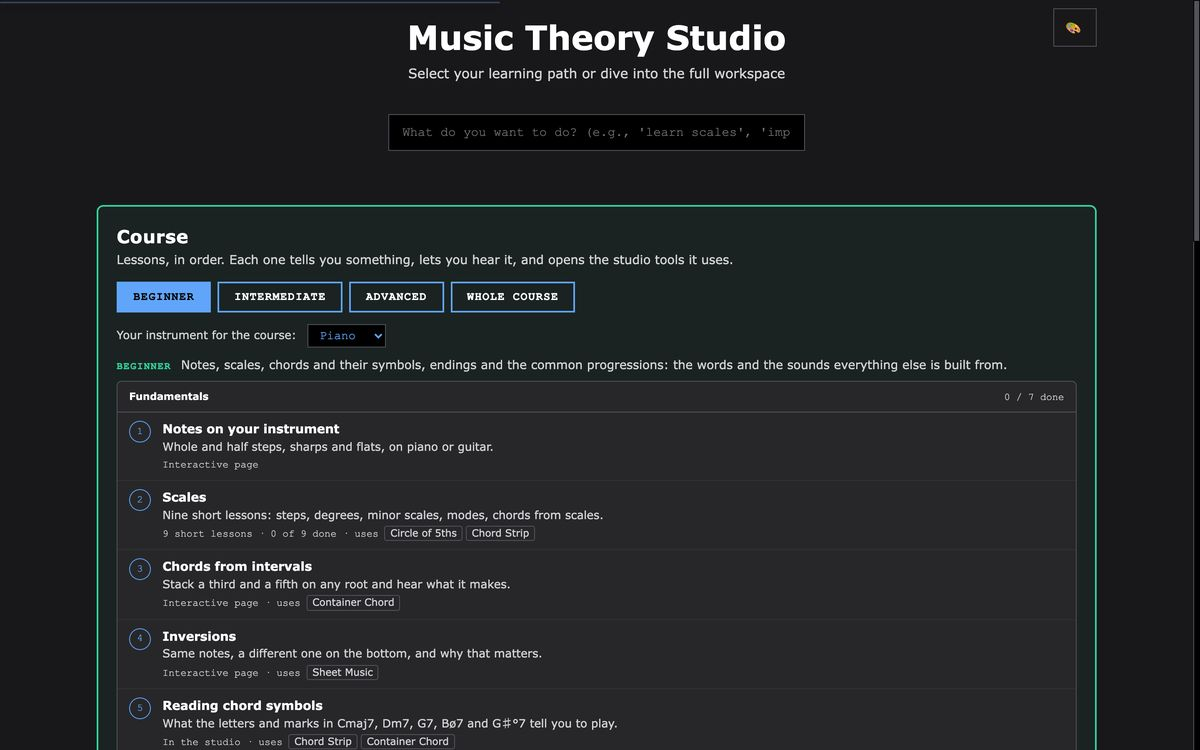
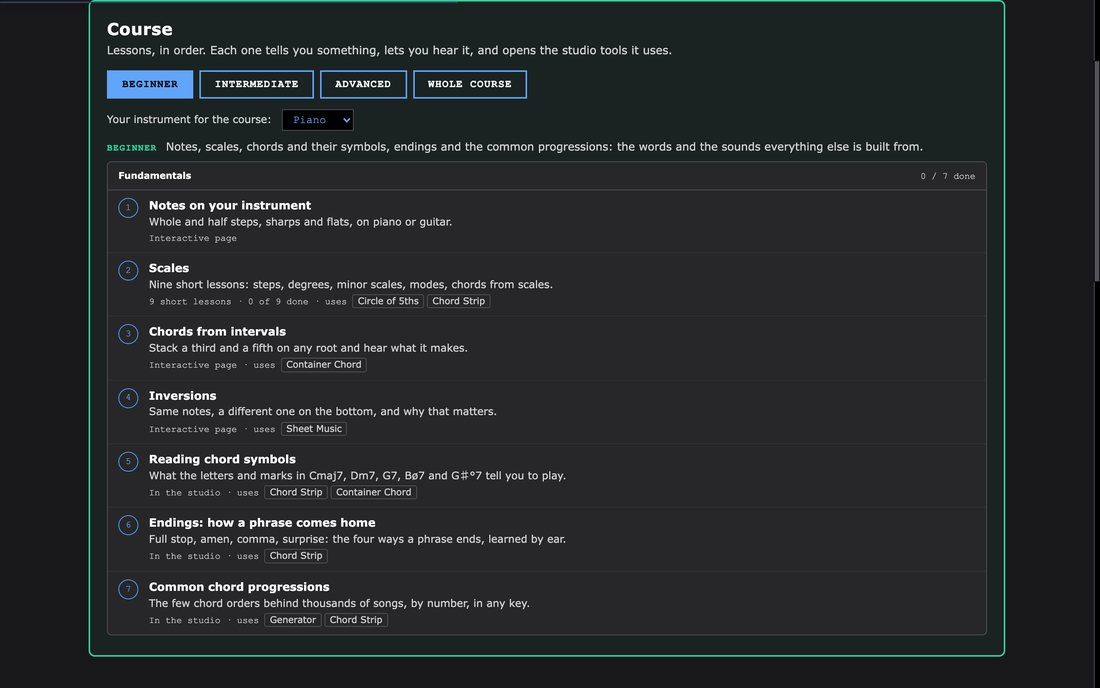
README: lead with the course and tools, new screenshots

diff --git a/README.md b/README.md
@@ -1,122 +1,145 @@
 # Music Theory Studio
 
-**Type a few words and get a piece of music that can explain itself.**
+**A music theory course and a set of interactive tools you can see, hear and play.**
 
 ### [Open the studio →](https://parkerchace.github.io/MusicTheory/modular-music-theory.html)
 
 Free · Runs in your browser · No install, no account · Nothing you type leaves your computer
 
-![The studio in its Stage & Wings look: a generated score across the whole stage with the words "the long walk home" under the staff, the input tools folded into a spine on the left and the reference tools on the right, a piano and a guitar neck along the bottom](media/studio-stage-wings.jpg)
+![A studio lesson in progress: the lesson card on the right explains the 5-of a chord with playable examples, a Show me callout points at a planet in the Solar System tool on the left, the score sits in the middle, and a piano and guitar neck run along the bottom](media/lesson-in-studio.jpg)
 
-Music Theory Studio is a workshop for how music is made. Give it a phrase, such as *the long walk home through winter woods*, and it reads what the words mean. It then chooses a key and scale, plans a form, writes harmony, melody and accompaniment, and engraves the result as a score you can hear, play along with and export as MIDI. Every press of **Generate** is a new take.
-
-Then it shows its work. A chord or a note from outside the key can say where it came from and why it is there. The aim is not a random-music machine. It is a composer that can be questioned, inside a set of theory tools you can rearrange to match how you think, with a course that teaches from those same tools.
+Music Theory Studio teaches theory by putting it under your fingers. A 20-lesson course runs from the names of the notes to chromatic mediants, on piano or guitar. Its lessons open the same tools you keep using afterwards: a circle of fifths, a solar-system map of the scale, chord and scale finders, a catalogue of every scale, a score, and a keyboard and neck that light up with whatever you are looking at.
 
 ---
 
-## Try it in one minute
+## Start here
 
-1. **[Open the studio](https://parkerchace.github.io/MusicTheory/modular-music-theory.html)**, scroll past the course, the tools and the looks, and press **Launch Full Studio**. To be taught first, pick a lesson from the course at the top of the page instead.
-2. Type a few words into the box in the top bar and press **Generate**.
-3. Press **▶ Play** in the score's toolbar. The studio opens in the OG look, where the toolbar sits above the score. Stage & Wings, Notation Desk and Luthier fold it behind **[CONTROLS]**, and Focus puts it below the score.
-4. Open **Where the music comes from** to see why each chord was chosen. It is above the score in OG and below the score in every other look.
-5. Click the piano. Your computer keyboard is now an instrument: `Z S X D C…` play notes, and holding **Shift** plays the scale's chords.
-6. Press **⊞** in the top bar and pick a different *look*. It is the same studio, arranged around a different idea.
+1. **[Open the studio](https://parkerchace.github.io/MusicTheory/modular-music-theory.html).** The course is at the top of the page.
+2. Choose piano or guitar under *Your instrument for the course*, then open **Notes on your instrument**, or pick a later level if you already know the basics.
+3. To go straight to the tools, scroll past the course and press **Launch Full Studio**.
+4. Click the piano. Your computer keyboard is now an instrument: `Z S X D C…` play notes, and holding **Shift** plays the scale's chords.
+5. Press **⊞** in the top bar and pick a different *look*. It is the same studio, arranged around a different idea.
 
 New here? The first launch offers a short tour, and the **?** menu has it again as Easy Mode, along with Demo Mode, which explains any tool you hover over.
 
 ---
 
-## What's inside
+## The course
 
-### Words into music
+**20 lessons at three levels, in order.** Intermediate and Advanced are built from the lecture *Finding Melodies in Scales*.
 
-- **Meaning, not only sound.** Words are read against 12 hand-built fields (motion, stillness, impact, rise, fall, bright, dark, tension, tenderness, sorrow, vastness, smallness), with "not", "very" and "barely" applied to the word that follows, and for how they sound and scan. A word the fields don't know counts as neutral rather than guessed at. The meaning leans the choice of key and shapes the piece; the rest comes from the take's seed.
-- **Seven ways to read a text.** *Contour* plays the shape of a line you draw. *Cipher* spells a melody from your letters. *Cast of Themes* turns each word into a recurring subject. *Spotting* treats sentences as film-cue sections, with punctuation as the edit. *Blocks* builds the whole piece from a handful of bars, reordered and stacked. *Pedal & Colour* holds one bass note under shifting harmony. *Two Lines* writes a melody on top and another on the bottom. The **ⓘ** beside the menu says what the current reading does.
-- **A line that says what it draws.** In Contour, draw with a mouse, finger or pen. *The line is* sets what the drawing stands for: the whole piece, each phrase, the melody itself, or a short motif. *Suggest a shape* offers 15 named shapes to start from or keep, such as False Summit, Lament and Eye of the Storm. Rhythm, melody and harmony dials sit underneath.
-
-![The Contour panel: a drawn curve labelled False Summit, what the line stands for, rhythm, melody and harmony dials, and the words as chips](media/contour.jpg)
-
-- **Real musical form.** 33 forms in 11 families: sentence and period, binary and rounded binary, bar form, the 12-bar blues, verse-chorus, rondo, sonata, fugal exposition, theme and variations, passacaglia, arch, minuet and trio, call and response, and more.
-- **Whole works.** **Expand**, on the score's toolbar, turns a piece into a multi-movement *work*, from 8 plans (sonata cycle, song cycle, baroque suite, concerto, diptych and others), with contrast between movements, a key plan that comes home, and later movements quoting earlier ones. Length is adjustable.
-- **Two devices that change the harmony.** *Approach scales* borrow a whole collection that points at the next chord and walk into it, with a choice of collections and how often. *Departures* step out to another key's colour, and you choose how they move and whether they come home.
-
-### A composer that explains itself
-
-- **Outside notes are placed on purpose.** A chromatic note comes from somewhere: a borrowed collection, a leading tone, an approach, a planned excursion. Tests measure how many slip through without a reason.
-- **Where the music comes from** gives the home key, the form, each borrowed chord with its source scale and purpose (you can audition each one), every trip out of the key and back, the progression bar by bar, why melody notes leave the scale, and how the texture changes. Type a progression there to browse the approach chords into it.
-- **Change one thing at a time.** *Adjust this take* keeps the seed and changes a single decision, so you hear only that decision: piano or four-part texture, the form, and 11 harmonic devices (sevenths, inversions, secondary dominants, borrowed chords, chromatic mediants and others) set to auto, on or off. **New take** rolls a new seed when you want one.
-
-![Where the music comes from, open: the home key, the verse-chorus form, the progression by section, and a reason for every chord bar by bar](media/where-the-music-comes-from.jpg)
-
-### Hear it and perform it
-
-- **Nine playback voices:** piano (plain, with reverb, pad or strings), strings, guitar, electric piano, and R&B synth and pad.
-- **Feel that a performance does:** four swing settings, three levels of expressive timing, and notes pushed or laid back against the grid.
-- **18 voicing styles** (close, drops, shells, quartal, gospel, rootless and more) plus 5 automatic strategies, with voice leading between chords. Set them for the whole piece or bar by bar.
-- **MIDI export** to any DAW, matching what is on the page.
-
-### A course that teaches inside the studio
-
-- **20 lessons at three levels.** *Beginner* covers notes, scales, chords, inversions, chord symbols, endings and common progressions. *Intermediate* covers voicings and drop 2, bebop major, and the 5-of and 4-of ways into any chord. *Advanced* covers approach chords, chromatic mediants and progressions into a target. Intermediate and Advanced are built from the lecture *Finding Melodies in Scales*.
-- **Lessons use the real tools.** A studio lesson lays out only the tools it needs and leaves the rest in a *More tools* drawer. **Show me** points at the control and a button beside it makes the setting for you. Steps that set something tick themselves when the studio reaches that state. Five lessons add a playable part: chord symbols on any root, a guess-the-ending game, progressions that load into the generator, and tables of the ways into a chord.
-- **Five guided Learn pages** cover notes on piano, notes on guitar, scales, chords and inversions. Each has its own practice or check and a way on to the next lesson. Progress is saved in your browser.
-- **Your instrument, all the way through.** Choose the guitar and the Learn pages show necks in place of keyboards, with its sound and its words, and studio lessons show a dock with only the guitar. The piano, guitar, scales and chords pages listen to the typing keyboard and to MIDI, so you can practise on a real instrument.
-- **Tools point back to lessons.** A *Learn* chip on a module header lists the lessons that use it, and the Studio tools cards on the landing page do the same. The OG look and folded rails don't show the chip.
+| Level | Unit | Lessons |
+| --- | --- | --- |
+| **Beginner** | Fundamentals | Notes on your instrument · Scales (nine short lessons) · Chords from intervals · Inversions · Reading chord symbols · Endings: how a phrase comes home · Common chord progressions |
+| **Intermediate** | Voicings: room for a melody | Start with the close-voiced chord · Drop 2 · Inverted drop 2s · Drop 2 & 4 and drop 3 |
+| | Interesting scales: bebop major | Bebop major: eight notes, two chords · Harmonize a melody: 6 or °7? |
+| | Two ways into any chord | The 5-of and the 4-of |
+| **Advanced** | Approach chords | A °7 a half step below · Tonicize the target, borrow from a scale on it · Scales carry moods |
+| | Approach by interval | A fifth away: Mixolydian, and ♭6 for minor · A third away: chromatic mediants |
+| | Progressions into a target | Tonicize with a whole progression |
 
 <p>
   <img src="media/course-landing.jpg" width="49%" alt="The course on the landing page: Beginner, Intermediate, Advanced and Whole course tabs, the instrument menu, and the numbered Fundamentals lessons">
   <img src="media/course-lesson.jpg" width="49%" alt="A studio lesson on drop 2 voicings: the lesson card on the right with playable examples, and a Show me callout pointing at the Voicing menu">
 </p>
-<p>
-  <img src="media/learn-guitar-notes.jpg" width="49%" alt="The Notes on your instrument page on guitar: a neck with a tuning menu and short numbered lessons beside it">
-  <img src="media/learn-chords-guitar.jpg" width="49%" alt="The Chords from intervals page on guitar: root and chord-type buttons, a chord built up one step at a time on small necks">
-</p>
 
-### A studio you can rearrange, and learn from
+### Lessons happen inside the real tools
 
-- **Five built-in looks** rearrange the same tools around a different principle. *OG* is the original layout, with everything on screen, and is where the studio opens. *Stage & Wings* (at the top of this page) gives the score the whole stage, with every tool a click away at the edges. *Notation Desk* keeps page proportions and puts the reference tools behind a drawer. *Luthier* is for players and puts the fretboard first. *Focus* shows one tool at a time.
-- **Build your own look.** Remix any look or start from a skeleton, give each zone a purpose, and name the idea behind it. Looks save in your browser and export as a small `.look.json` file another person can import.
-- **Four visual themes:** Clean DAW, Channel Strip, Matrix FX and Steam 2000. The 🎨 button steps through them.
+- **Only what the lesson needs.** A studio lesson lays out the tools it uses and leaves the rest in a *More tools* drawer.
+- **Show me.** A button points at the control the lesson means, and a second button beside it makes the setting for you.
+- **Steps that notice.** A step that sets something ticks itself when the studio reaches that state.
+- **Things to play.** Every lesson has examples to hear, and five add a playable part: chord symbols on any root, a guess-the-ending game, progressions that load into the Generator, and tables of the ways into a chord.
 
 <p>
-  <img src="media/look-og.jpg" width="49%" alt="The OG look: the number generator in a left column, the chord strip and sheet music with its full toolbar, and a piano and neck below">
-  <img src="media/look-notation-desk.jpg" width="49%" alt="The Notation Desk look: the score centred with page proportions and a folded reference drawer at the right edge">
-</p>
-<p>
-  <img src="media/look-luthier.jpg" width="49%" alt="The Luthier look: a full-width guitar fretboard across the top, theory tools in a compact column, the score and a large piano below">
-  <img src="media/look-focus.jpg" width="49%" alt="The Focus look: the chord strip above a row of tabs, and the score alone beneath them">
+  <img src="media/lesson-chord-symbols.jpg" width="49%" alt="The Reading chord symbols lesson: a row of roots, a small keyboard, and a table of chord symbols with their numbers, notes and half steps">
+  <img src="media/lesson-endings.jpg" width="49%" alt="The Endings lesson: four cadences named Full stop, Amen, Comma and Surprise, each a playable row of chords, with a callout pointing at the Chords button on the keyboard strip">
 </p>
 
-### Play it
+### Five guided Learn pages
+
+The Beginner lessons on notes, scales, chords and inversions open pages built for a first-time student. Each has its own practice or check and a way on to the next lesson, and progress is saved in your browser.
+
+<p>
+  <img src="media/learn-piano-notes.jpg" width="49%" alt="Notes on your instrument, on piano: a keyboard of the C major notes joined by lines to the same notes on a staff">
+  <img src="media/learn-guitar-notes.jpg" width="49%" alt="Notes on your instrument, on guitar: a neck with a tuning menu and short numbered lessons beside it">
+</p>
+<p>
+  <img src="media/learn-scales.jpg" width="49%" alt="The Scales page: nine numbered lessons, a short explanation of what a scale is, a check question, and a playable piano with the scale's notes numbered">
+  <img src="media/learn-inversions.jpg" width="49%" alt="The Inversions page: three small keyboards showing C major with C, E and then G on the bottom">
+</p>
+<p>
+  <img src="media/learn-chords.jpg" width="49%" alt="Chords from intervals, on piano: root and chord-type buttons, and a chord built up one step at a time on small keyboards">
+  <img src="media/learn-chords-guitar.jpg" width="49%" alt="Chords from intervals, on guitar: the same page with the chord built up one step at a time on small necks">
+</p>
+
+### Your instrument, all the way through
+
+Choose the guitar and the Learn pages show necks in place of keyboards, with its sound and its words, and studio lessons show a dock with only the guitar. The piano, guitar, scales and chords pages listen to the typing keyboard and to MIDI, so you can practise on a real instrument.
+
+**Tools point back to lessons.** A *Learn* chip on a module header lists the lessons that use it, and the Studio tools cards on the landing page do the same. The OG look and folded rails don't show the chip.
+
+---
+
+## The tools
+
+Every tool follows the same key and scale, so a change in one shows up in the others. The **Chord Strip** above the score keeps one chord for each degree of the scale in view.
+
+### Circle of 5ths and Solar System
+
+The **Circle of 5ths** shows keys as wedges, with a relative-minor ring, and clicking one changes the studio's key. It switches to 4ths or chromatic order and numbers the scale's notes (Notes / 1 2 3 / Both).
+
+The **Solar System** shows the scale as orbits around its tonic, with every note a numbered planet on its own ring. Click a planet to zoom in on its moons: the chords that lead to it or hold it, each numbered from the planet and named for its role, such as tritone sub, five-of and chromatic mediant. Click a moon to add it to the score.
+
+<p>
+  <img src="media/circle-of-fifths.jpg" width="49%" alt="The Circle of Fifths in G Mixolydian: the scale's notes as numbered green wedges, a relative-minor ring, and a panel with the scale and closest keys">
+  <img src="media/solar-system.jpg" width="49%" alt="The Solar System tool in G Mixolydian: a sun labelled G and seven numbered planets, each on its own ring">
+</p>
+
+![Zoomed in on the fifth planet, D: its moons on their own rings, labelled with chord names, and a list naming each one's role, such as tritone sub, five-of and chromatic mediant](media/solar-moons.jpg)
+
+### Container Chord
+
+*Which chords contain these notes?* Type or pick the notes, narrow the list to the scale if you like, group the answers by fit, root or family, and add a chord to the score.
+
+![Container Chord showing the chords that contain D, F and A in C major: Dm7, Dm6, F6, Bm7b5 and others, each with its notes, where it leads, and variations such as Dm9 and Dm11](media/tool-container-chord.jpg)
+
+### Scale Relations
+
+*Which scales contain this chord?* Filter by tonic, then preview a scale on a piano with its chords, or apply it to the studio.
+
+![Scale Relations with D Dorian open: a piano with the scale's notes lit and the scale's chords listed underneath, from Dm7 to Cmaj7](media/tool-scale-relations.jpg)
+
+### Sheet Music
+
+The score, with chord names and how each one is voiced. Its toolbar sets staff, bars, tempo, voicing, feel and sound, and **+** marks add a section to the form.
+
+- **18 voicing styles** (close, drops, shells, quartal, gospel, rootless and more) plus 5 automatic strategies, with voice leading between chords. Set them for the whole piece or bar by bar.
+- **Nine playback voices:** piano (plain, with reverb, pad or strings), strings, guitar, electric piano, and R&B synth and pad.
+- **Feel:** four swing settings, three levels of expressive timing, and notes pushed or laid back against the grid.
+- **MIDI export** to any DAW, matching what is on the page.
+
+![Sheet Music in the Focus look: chords written on a grand staff with their names and voicings above and below, and the Voicing Options panel beside the score](media/tool-sheet.jpg)
+
+### Generator
+
+Type a progression as numbers, numerals or chord names, or generate one with a logic of your choice, then rotate it, run it backwards or swap in a common progression. It writes degrees as numbers, and the **123** button switches them to roman numerals.
+
+![The Generator: a logic menu, undo and redo, the progression written as 1 2 3 4 5 6 7, each number with its note below, and buttons for a new or common progression and retrograde](media/tool-generator.jpg)
+
+### Piano and Fretboard
+
+The instrument dock runs along the bottom of the studio and shows the scale and the chord being played. The piano has scale degrees in colour and standard fingerings for either hand or both, which you can turn off.
+
+![The instrument dock: a piano with the C major scale numbered and coloured beside a guitar neck with every scale tone marked and the roots highlighted](media/tool-dock.jpg)
 
 - **Your computer keyboard is an instrument**, laid out like FL Studio's: two rows of piano keys, ← → for octave and ↑ ↓ for velocity. It never takes over while you are typing in a text box.
 - **Chords mode** puts the scale's chords under your fingers, with sevenths on the row above and secondary dominants on the black keys. Each chord goes through the same voicing engine as the score. **A** picks the inversion. **F** "walks" the inversions as you play.
 - **Harmonize mode** treats what you play as a melody and puts a chord from the scale underneath it. It works with a MIDI keyboard too.
 - **One guitar tuning everywhere.** Choose from 12 tunings (Drop D, DADGAD, open tunings and more) or type your own. Necks, chord shapes and lessons all follow it, and it is remembered for your next visit.
-- **A piano that shows its work:** scale degrees in colour, and standard fingerings for either hand or both, which you can turn off.
 
-### The tools
+---
 
-| Tool | What it does |
-| --- | --- |
-| **Sheet Music** | The score: the toolbar for staff, bars, tempo, voicing, feel, sound and Expand, plus **+** marks to add a section to the form |
-| **Chord Strip** | One chord for each degree of the scale |
-| **Circle of 5ths** | Keys as wedges, with a relative-minor ring. Clicking one changes the studio's key. Switches to 4ths or chromatic order, and numbers the scale's notes (Notes / 1 2 3 / Both) |
-| **Solar System** | The scale as orbits around its tonic, with every note a numbered planet on its own ring. Click a planet to zoom in on its moons: the chords that lead to it or hold it, each numbered from the planet and named for its role. Click a moon to add it to the score |
-| **Container Chord** | "Which chords contain these notes?" Type or pick the notes, narrow the list to the scale if you like, and add a chord to the score |
-| **Scale Relations** | "Which scales contain this chord?" Filters by tonic, then previews a scale on a piano with its chords, or applies it |
-| **Generator** | Type a progression as numbers, numerals or chord names, or generate one with a logic of your choice, then rotate it, run it backwards or swap in a common progression. It writes degrees as numbers, and the **123** button switches them to roman numerals |
-| **Piano and Fretboard** | The instrument dock along the bottom, showing the scale and the chord being played |
-
-<p>
-  <img src="media/solar-system.jpg" width="49%" alt="The Solar System tool in G Mixolydian: a sun labelled G and seven numbered planets, each on its own ring">
-  <img src="media/circle-of-fifths.jpg" width="49%" alt="The Circle of Fifths in G Mixolydian: the scale's notes as numbered green wedges, a relative-minor ring, and a panel with the scale and closest keys">
-</p>
-
-![Zoomed in on the fifth planet, D: its moons on their own rings, labelled with chord names, and a list naming each one's role, such as tritone sub, five-of and chromatic mediant](media/solar-moons.jpg)
-
-### The scale catalogue
+## The scale catalogue
 
 **All 2,048 sets of notes that contain a root**, with over 3,800 further names kept alongside the display names and shown in their own traditions. Dorian also appears as 22 Kharaharapriyā under Carnatic and Kafi thaat under Hindustani. Names that no source confirms are marked as such, and scales from other traditions are marked as approximations in twelve notes.
 
@@ -131,17 +154,43 @@ New here? The first launch offers a short tour, and the **?** menu has it again 
 
 ---
 
-## The idea
+## A studio you can rearrange
 
-Most generative music is individually correct and collectively about nothing. The studio already had the theory machinery. The hard part was **intention**: placement, commitment, repetition and restraint. The generator is tuned against pieces that show those qualities:
+- **Five built-in looks** rearrange the same tools around a different principle. *OG* is the original layout, with everything on screen, and is where the studio opens. *Stage & Wings* gives the score the whole stage, with every tool a click away at the edges. *Notation Desk* keeps page proportions and puts the reference tools behind a drawer. *Luthier* is for players and puts the fretboard first. *Focus* shows one tool at a time.
+- **Build your own look.** Remix any look or start from a skeleton, give each zone a purpose, and name the idea behind it. Looks save in your browser and export as a small `.look.json` file another person can import.
+- **Four visual themes:** Clean DAW, Channel Strip, Matrix FX and Steam 2000. The 🎨 button steps through them.
 
-- **Minuet in G**: simple chords, full of character, because it moves in gestures that commit to a direction.
-- **Für Elise**: chromatic notes exist for motion, and there are very few of them. The E–D♯–E rub works because it keeps coming back.
-- **Bach's Prelude in C**: one figure, never varied, while the harmony walks through it.
-- **Pachelbel**: a melody on top and a melody on the bottom at the same time.
-- **Ellington**: a highlighted moment is built on and escalated, not repeated.
+<p>
+  <img src="media/look-og.jpg" width="49%" alt="The OG look: the Generator in a left column, the chord strip and sheet music with its full toolbar, and a piano and neck below">
+  <img src="media/look-stage-wings.jpg" width="49%" alt="The Stage and Wings look: the score across the whole stage with the tools folded into rails at the left and right edges">
+</p>
+<p>
+  <img src="media/look-luthier.jpg" width="49%" alt="The Luthier look: a full-width guitar fretboard across the top, theory tools in a compact column, the score and a large piano below">
+  <img src="media/look-notation-desk.jpg" width="49%" alt="The Notation Desk look: the score centred with page proportions and a folded reference drawer at the right edge">
+</p>
+<p>
+  <img src="media/look-focus.jpg" width="49%" alt="The Focus look: the chord strip above a row of tabs, and the score alone beneath them">
+  <img src="media/look-builder.jpg" width="49%" alt="The look builder: a panel with a name, a purpose, eight skeletons to start from, and a list of modules assigned to zones, beside a live preview of the layout">
+</p>
 
-That philosophy runs through the whole app. Each look is a theory of what belongs next to what. The score can account for its chromatic notes. The musical rules are checked by tests in `tools/` that measure them across many seeded pieces.
+---
+
+## Writing music from words
+
+The studio can also write a piece for you to hear and take apart. It is a smaller part of the app. Type a few words in the top bar and press **Generate**, then **▶ Play** in the score's toolbar. Every press is a new take.
+
+- **Reading the words.** Words are read against 12 hand-built fields of meaning and for how they sound and scan. The meaning leans the choice of key and shapes the piece; the rest comes from the take's seed.
+- **Seven readings of a text.** *Contour* plays the shape of a line you draw, with 15 named shapes to start from. *Cipher* spells a melody from your letters. *Cast of Themes* turns each word into a recurring subject. *Spotting* treats sentences as film-cue sections. *Blocks* builds the piece from a handful of bars. *Pedal & Colour* holds one bass note under shifting harmony. *Two Lines* writes a melody on top and another on the bottom.
+- **Form.** 33 forms in 11 families, from sentence and period to sonata and passacaglia. **Expand**, on the score's toolbar, turns a piece into a multi-movement work from 8 plans.
+- **Devices.** *Approach scales* borrow a whole collection that points at the next chord and walk into it. *Departures* step out to another key's colour.
+- **It explains itself.** *Where the music comes from* gives the home key, the form, each borrowed chord with its source scale and purpose, and why melody notes leave the scale. *Adjust this take* keeps the seed and changes one decision, so you hear only that decision.
+
+<p>
+  <img src="media/contour.jpg" width="49%" alt="The Contour panel: a drawn curve labelled False Summit, what the line stands for, rhythm, melody and harmony dials, and the words as chips">
+  <img src="media/where-the-music-comes-from.jpg" width="49%" alt="Where the music comes from, open: the home key, the verse-chorus form, the progression by section, and a reason for every chord bar by bar">
+</p>
+
+The generator is tuned against pieces that commit to an idea: Minuet in G for gestures with a direction, Für Elise for few chromatic notes that keep coming back, Bach's Prelude in C for one figure while the harmony walks through it, Pachelbel for a melody on top and on the bottom at once, and Ellington for a moment that is built on and escalated. Tests in `tools/` measure these musical rules across many seeded pieces.
 
 ---
 
@@ -170,6 +219,7 @@ The scale picker was the part of the app that most misrepresented what it knew. 
 - **Stopping:** a score that is playing can keep going after you leave the studio.
 - **Engraving:** the score prints a raw scale id above the staff and a "Tips" line across it, and lyrics can collide.
 - **Guitar in the course:** the chord-symbols table in *Reading chord symbols* always draws a keyboard, even when you chose the guitar.
+- **Spelling in Container Chord:** flats can be listed as sharps. C7 shows as C, E, G, A♯ even in C major.
 - **Harmonization mode:** the Generator's three choices reach the score, but none of them changes a generated piece yet. The chord picking behind them was removed with the old progression builder.
 - **Leftovers:** a greyed-out *Send → Bitwig* button on the score's toolbar, a Generator hint pointing at a "Control Deck" that no longer exists, and some landing-page tool descriptions older than the tools they describe.
 - **Long sessions:** the app's interaction log grows without limit.
@@ -184,8 +234,8 @@ The scale picker was the part of the app that most misrepresented what it knew. 
 ### Where it could go
 
 - **Classrooms.** A look is a lesson plan in miniature. A teacher can build one that puts exactly the tools a unit needs in the order it teaches them, then share it as a file.
-- **Songwriting and scoring.** Spotting reads a scene description as cue timings. Two Lines and the approach devices produce material worth taking into a DAW through MIDI export.
 - **Practice.** Chords mode and Harmonize make any keyboard, MIDI or QWERTY, into a voice-leading and harmony trainer.
+- **Songwriting and scoring.** Spotting reads a scene description as cue timings. Two Lines and the approach devices produce material worth taking into a DAW through MIDI export.
 - **Research and teaching about text and music.** Seven explicit, inspectable readings of text into music, each one documented in the app with what it reads and what it controls.
 
 ---
@@ -235,16 +285,16 @@ On November 6, 2026, all 87 passed at 1440x900 with no page errors.
 | Area | Files |
 | --- | --- |
 | Page and app wiring | `modular-music-theory.html`, `modular-app.js`, `module-selector.js` (landing page and page switching), `tutorial-system.js`, `theme-switcher.js` |
+| Course | `course.js` (the lessons), `course-runner.js` (a lesson inside the studio), `course-theory.js` (spelling and chord naming), `course-widgets.js` (playable tables and games), `course.css` |
+| Learn pages | `learn-common.js` (what they share), `learn-piano-notes.js`, `learn-guitar-notes.js`, `learn-scales.js`, `learn-chords.js`, `learn-inversions.js` |
+| Theory tools | `number-generator.js`, `container-chord-tool.js`, `scale-relationship-explorer.js`, `scale-circle-explorer.js`, `solar-system-visualizer.v2.js`, `viz-controls.css` (the bar the circle and the solar system share) |
+| Instruments and input | `piano-visualizer.js`, `guitar-fretboard-visualizer.js`, `guitar-tuning.js` (the one tuning every neck reads), `instrument-dock.js`, `qwerty-keys.js`, `qwerty-chords.js`, `midi-input-manager.js` |
+| Theory data and scale picker | `music-theory-engine.js`, `chord-attribute-engine.js`, `scales-data-embedded.js`, `scales-loader-embedded.js`, `scale-taxonomy.js`, `scale-library.js`, `scale-helper.js`, [`tools/scales/`](tools/scales/README.md) (the catalogue build) |
+| Score, voicing, playback, MIDI | `sheet-music-generator.js`, `voice-leading-engine.js`, `music-provenance-panel.js`, `logic-path-3d.js`, `simple-audio-engine.js`, `enhanced-audio-engine.js`, `piano-sample-engine.js` |
+| Looks | `look-schema.js` (what a look is, and its validator), `studio-looks.js`, `look-builder.js`, `module-fit.js` |
 | Words → context | `context-engine.js`, `word-character-engine.js`, `semantic-contour-engine.js`, `scale-intelligence-engine.js`, `scoring-methods.js` (the seven readings and the devices) |
 | Composition | `arc-ui-init.js` (the pipeline), `form-planner.js`, `functional-harmony.js`, `harmony-complexity.js`, `progression-library.js`, `numeric-progression.js`, `approach-engine.js`, `scale-colour.js`, `melodic-line-engine.js`, `piano-texture-engine.js` |
 | Contour and adjusting a take | `composition-timeline-ui.js`, `contour-meaning.js`, `composition-controls.js` |
-| Score, voicing, playback, MIDI | `sheet-music-generator.js`, `voice-leading-engine.js`, `music-provenance-panel.js`, `logic-path-3d.js`, `simple-audio-engine.js`, `enhanced-audio-engine.js`, `piano-sample-engine.js` |
-| Theory data and scale picker | `music-theory-engine.js`, `chord-attribute-engine.js`, `scales-data-embedded.js`, `scales-loader-embedded.js`, `scale-taxonomy.js`, `scale-library.js`, `scale-helper.js`, [`tools/scales/`](tools/scales/README.md) (the catalogue build) |
-| Theory tools | `number-generator.js`, `container-chord-tool.js`, `scale-relationship-explorer.js`, `scale-circle-explorer.js`, `solar-system-visualizer.v2.js`, `viz-controls.css` (the bar the circle and the solar system share) |
-| Looks | `look-schema.js` (what a look is, and its validator), `studio-looks.js`, `look-builder.js`, `module-fit.js` |
-| Instruments and input | `piano-visualizer.js`, `guitar-fretboard-visualizer.js`, `guitar-tuning.js` (the one tuning every neck reads), `instrument-dock.js`, `qwerty-keys.js`, `qwerty-chords.js`, `midi-input-manager.js` |
-| Course | `course.js` (the lessons), `course-runner.js` (a lesson inside the studio), `course-theory.js` (spelling and chord naming), `course-widgets.js` (playable tables and games), `course.css` |
-| Learn pages | `learn-common.js` (what they share), `learn-piano-notes.js`, `learn-guitar-notes.js`, `learn-scales.js`, `learn-chords.js`, `learn-inversions.js` |
 
 ---
 
